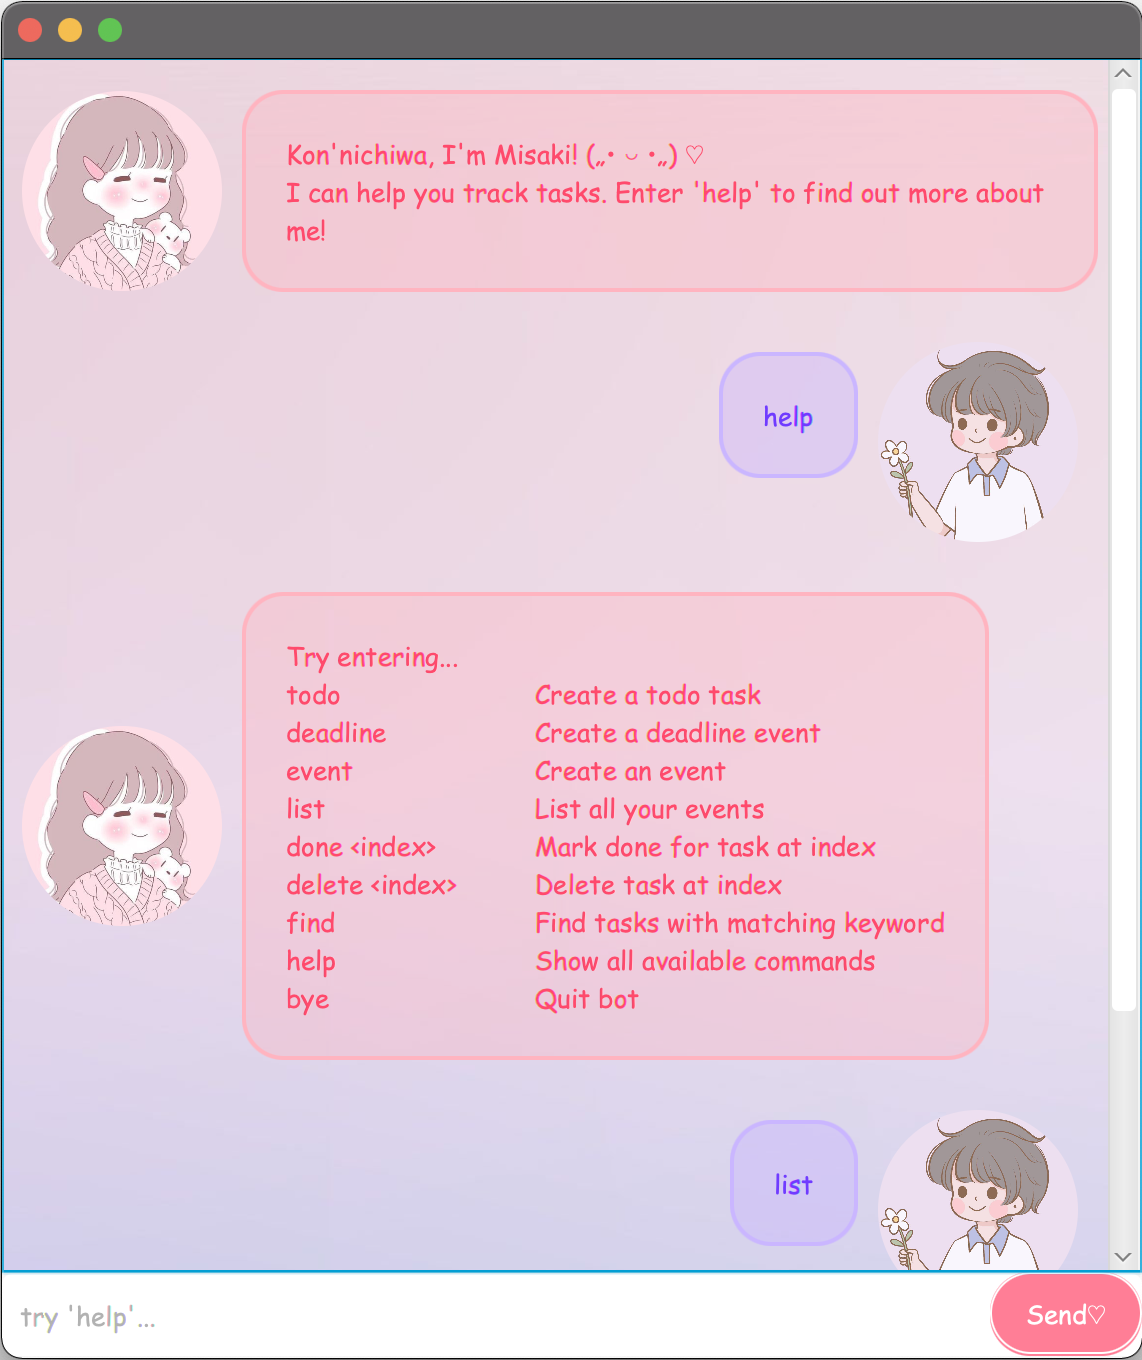
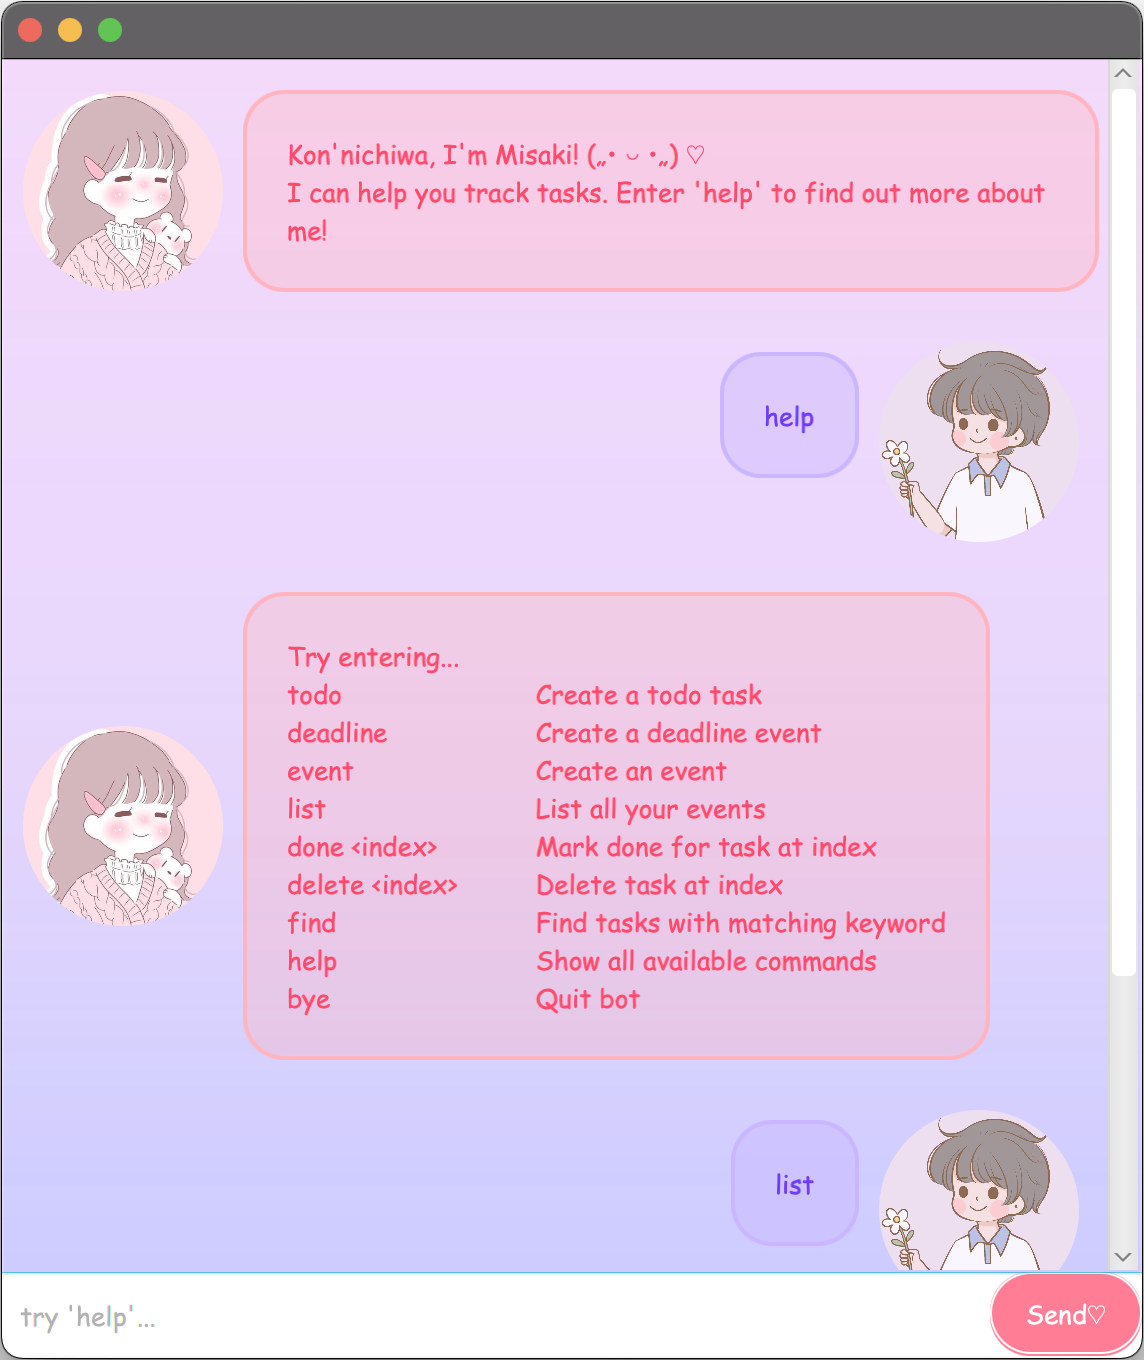
Resolve deadline and event bug

diff --git a/src/main/resources/style/style.css b/src/main/resources/style/style.css
@@ -1,8 +1,13 @@
 .scroll-pane .viewport {
-    -fx-background-image: url('../Images/bkgd.png');
     -fx-background-size: cover;
     -fx-background-position: center;
     -fx-background-repeat: no-repeat;
+}
+
+.background {
+    -fx-background-image: url('../Images/bkgd.png');
+    -fx-background-size: 100% 180%;
+    -fx-background-position: bottom center;
 }
 
 .scroll-bar .thumb {

diff --git a/src/main/java/misaki/parser/Parser.java b/src/main/java/misaki/parser/Parser.java
@@ -155,7 +155,7 @@ public class Parser {
     public boolean isValidDateTime(String date) {
         Boolean isValid = true;
         try {
-            date = date.replace("T", " ");
+            date = date.replace(" ", "T");
             LocalDateTime dateTime = LocalDateTime.parse(date);
             DateTimeFormatter formatter = DateTimeFormatter.ofPattern("d MMM yyyy HH:mm a");
             dateTime.format(formatter);
